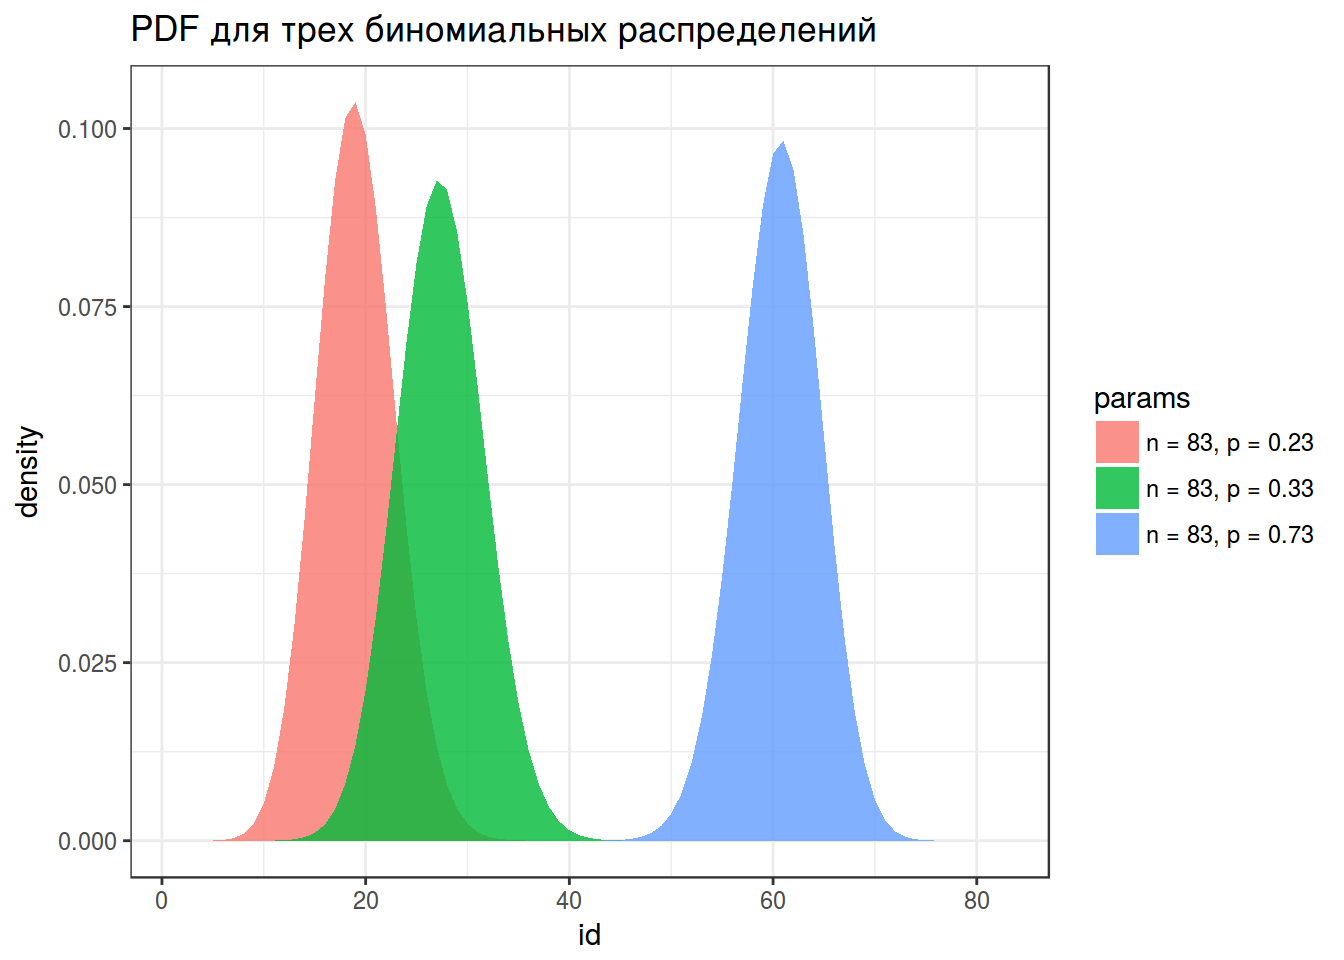
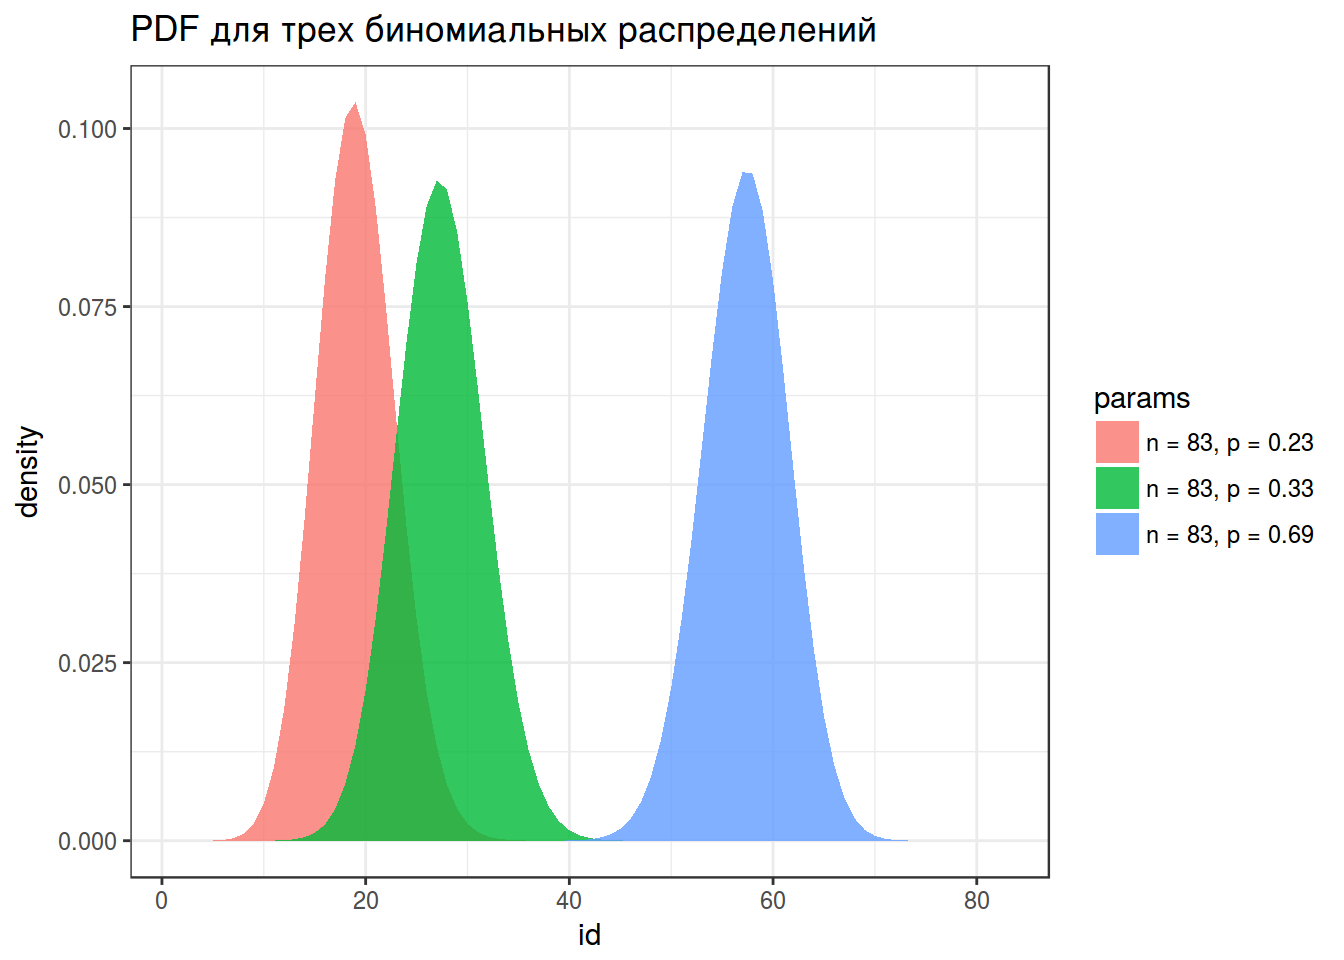
add about beta

Changed region(s): [[0.4375, 0.1562, 0.6875, 0.875], [0.9375, 0.5312, 0.9688, 0.5625]]

diff --git a/docs/1_binomial.html b/docs/1_binomial.html
@@ -447,8 +447,8 @@ div.tocify {
 </div>
 <div id="-" class="section level3">
 <h3>2. Биномиальное распределение</h3>
-<p><span class="math display">\[P(k | n, p) = \frac{n!}{k!(n-k)!} \times p^k \times (1-p)^{n-k} =  {n \choose k} \times p^k \times (1-p)^{n-k} \]</span></p>
-<div class="sourceCode"><pre class="sourceCode r"><code class="sourceCode r">probabilities &lt;-<span class="st"> </span><span class="kw">c</span>(<span class="fl">0.23</span>, <span class="fl">0.33</span>, <span class="fl">0.73</span>)
+<p><span class="math display">\[P(k | n, p) = \frac{n!}{k!(n-k)!} \times p^k \times (1-p)^{n-k} =  {n \choose k} \times p^k \times (1-p)^{n-k}; 0 \leq p \leq 1; n, k &gt; 0 \]</span></p>
+<div class="sourceCode"><pre class="sourceCode r"><code class="sourceCode r">probabilities &lt;-<span class="st"> </span><span class="kw">c</span>(<span class="fl">0.23</span>, <span class="fl">0.33</span>, <span class="fl">0.69</span>)
 density &lt;-<span class="st"> </span><span class="kw">c</span>(<span class="kw">dbinom</span>(<span class="dt">x =</span> <span class="dv">1</span>:<span class="dv">83</span>, <span class="dt">size =</span> <span class="dv">83</span>, <span class="dt">prob =</span> probabilities[<span class="dv">1</span>]),
              <span class="kw">dbinom</span>(<span class="dt">x =</span> <span class="dv">1</span>:<span class="dv">83</span>, <span class="dt">size =</span> <span class="dv">83</span>, <span class="dt">prob =</span> probabilities[<span class="dv">2</span>]),
              <span class="kw">dbinom</span>(<span class="dt">x =</span> <span class="dv">1</span>:<span class="dv">83</span>, <span class="dt">size =</span> <span class="dv">83</span>, <span class="dt">prob =</span> probabilities[<span class="dv">3</span>]))
@@ -462,10 +462,10 @@ binomials %&gt;%<span class="st"> </span>
 <span class="st">  </span><span class="kw">labs</span>(<span class="dt">title =</span> <span class="st">&quot;PDF для трех биномиальных распределений&quot;</span>)+
 <span class="st">  </span><span class="kw">theme_bw</span>()</code></pre></div>
 <p><img src="1_binomial_files/figure-html/unnamed-chunk-1-1.png" width="672" /></p>
-<p><span class="math display">\[E[X] = np\]</span></p>
+<p><span class="math display">\[E[X] = np; D[X] = np\times(n-1)\]</span></p>
 <div class="sourceCode"><pre class="sourceCode r"><code class="sourceCode r">binomials %&gt;%<span class="st"> </span>
 <span class="st">  </span><span class="kw">ggplot</span>(<span class="kw">aes</span>(id, density, <span class="dt">fill =</span> params))+
-<span class="st">  </span><span class="kw">geom_vline</span>(<span class="dt">xintercept =</span> <span class="dv">83</span> *<span class="st"> </span>probabilities, <span class="dt">lty =</span> <span class="dv">2</span>)+<span class="st"> </span><span class="co"># обратите вниммание!</span>
+<span class="st">  </span><span class="kw">geom_vline</span>(<span class="dt">xintercept =</span> <span class="dv">83</span> *<span class="st"> </span>probabilities, <span class="dt">lty =</span> <span class="dv">2</span>)+
 <span class="st">  </span><span class="kw">geom_polygon</span>(<span class="dt">alpha =</span> <span class="fl">0.8</span>)+
 <span class="st">  </span><span class="kw">labs</span>(<span class="dt">title =</span> <span class="st">&quot;PDF для трех биномиальных распределений&quot;</span>)+
 <span class="st">  </span><span class="kw">theme_bw</span>()</code></pre></div>
@@ -505,9 +505,36 @@ binomial_test</code></pre></div>
 <span class="st">  </span><span class="kw">labs</span>(<span class="dt">title =</span> <span class="st">&quot;Биномиальное распределение с параметрами n = 83, p = 0.23&quot;</span>,
        <span class="dt">subtitle =</span> <span class="st">&quot;Голубой — центральные 95% данных&quot;</span>)</code></pre></div>
 <p><img src="1_binomial_files/figure-html/unnamed-chunk-4-1.png" width="672" /></p>
+<div class="parallax">
+
+</div>
 </div>
 <div id="-" class="section level3">
 <h3>4. Бета распределение</h3>
+<p><span class="math display">\[f(x; α, β) = \frac{1}{B(α, β)}\times x^{α-1}\times (1-x)^{β-1}; 0 \leq x \leq 1; α, β &gt; 0\]</span> Бета функция: <span class="math display">\[Β(α, β) = \frac{Γ(α)\times Γ(β)}{Γ(α+β)} = \frac{(α-1)!(β-1)!}{(α+β-1)!} \]</span></p>
+<div class="sourceCode"><pre class="sourceCode r"><code class="sourceCode r">x &lt;-<span class="st"> </span><span class="kw">seq</span>(<span class="dv">0</span>, <span class="dv">1</span>, <span class="dt">length =</span> <span class="dv">100</span>)
+alpha &lt;-<span class="st"> </span><span class="kw">c</span>(<span class="dv">23</span>, <span class="dv">33</span>, <span class="dv">69</span>)
+beta &lt;-<span class="st"> </span><span class="dv">83</span>-alpha
+density &lt;-<span class="st"> </span><span class="kw">c</span>(<span class="kw">dbeta</span>(x, <span class="dt">shape1 =</span> alpha[<span class="dv">1</span>], <span class="dt">shape2 =</span> beta[<span class="dv">1</span>]),
+             <span class="kw">dbeta</span>(x, <span class="dt">shape1 =</span> alpha[<span class="dv">2</span>], <span class="dt">shape2 =</span> beta[<span class="dv">2</span>]),
+             <span class="kw">dbeta</span>(x, <span class="dt">shape1 =</span> alpha[<span class="dv">3</span>], <span class="dt">shape2 =</span> beta[<span class="dv">3</span>]))
+params &lt;-<span class="st"> </span><span class="kw">rep</span>(<span class="kw">paste</span>(<span class="st">&quot;α =&quot;</span>, alpha, <span class="st">&quot;, β =&quot;</span>, beta), <span class="dt">each =</span> <span class="dv">100</span>)
+betas &lt;-<span class="st"> </span><span class="kw">data_frame</span>(density, params, <span class="dt">id =</span> <span class="kw">rep</span>(x, <span class="dv">3</span>))
+
+betas %&gt;%<span class="st"> </span>
+<span class="st">  </span><span class="kw">ggplot</span>(<span class="kw">aes</span>(id, density, <span class="dt">fill =</span> params))+
+<span class="st">  </span><span class="kw">geom_polygon</span>(<span class="dt">alpha =</span> <span class="fl">0.8</span>)+
+<span class="st">  </span><span class="kw">labs</span>(<span class="dt">title =</span> <span class="st">&quot;PDF для трех бета распределений&quot;</span>)+
+<span class="st">  </span><span class="kw">theme_bw</span>()</code></pre></div>
+<p><img src="1_binomial_files/figure-html/unnamed-chunk-5-1.png" width="672" /></p>
+<p><span class="math display">\[Ε[X] = \frac{α}{α+β}; D[X] = \frac{α\times β}{(α+β)^2(α+β+1)}\]</span></p>
+<div class="sourceCode"><pre class="sourceCode r"><code class="sourceCode r">betas %&gt;%<span class="st"> </span>
+<span class="st">  </span><span class="kw">ggplot</span>(<span class="kw">aes</span>(id, density, <span class="dt">fill =</span> params))+
+<span class="st">  </span><span class="kw">geom_vline</span>(<span class="dt">xintercept =</span> alpha/(alpha+beta), <span class="dt">lty =</span> <span class="dv">2</span>)+
+<span class="st">  </span><span class="kw">geom_polygon</span>(<span class="dt">alpha =</span> <span class="fl">0.8</span>)+
+<span class="st">  </span><span class="kw">labs</span>(<span class="dt">title =</span> <span class="st">&quot;PDF для трех бета распределений&quot;</span>)+
+<span class="st">  </span><span class="kw">theme_bw</span>()</code></pre></div>
+<p><img src="1_binomial_files/figure-html/unnamed-chunk-6-1.png" width="672" /></p>
 <div class="parallax">
 
 </div>
@@ -543,7 +570,7 @@ simulations %&gt;%<span class="st"> </span>
 <span class="st">  </span><span class="kw">geom_vline</span>(<span class="dt">xintercept =</span> <span class="dv">27</span>, <span class="dt">linetype =</span> <span class="dv">2</span>)+
 <span class="st">  </span><span class="kw">theme_bw</span>()+
 <span class="st">  </span><span class="kw">labs</span>(<span class="dt">title =</span> <span class="st">&quot;Распределение 1000 симуляций с параметрами n = 83, p = 0.23&quot;</span>)</code></pre></div>
-<p><img src="1_binomial_files/figure-html/unnamed-chunk-5-1.png" width="672" /></p>
+<p><img src="1_binomial_files/figure-html/unnamed-chunk-7-1.png" width="672" /></p>
 <div class="parallax">
 
 </div>
